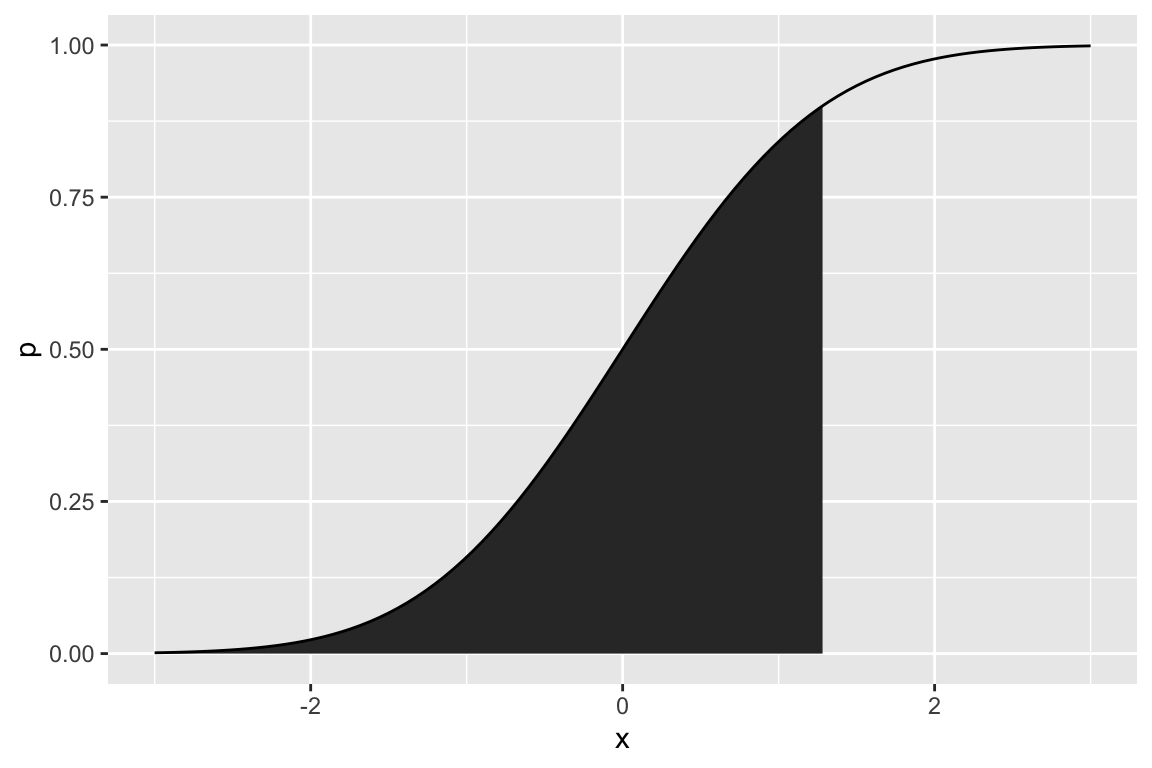
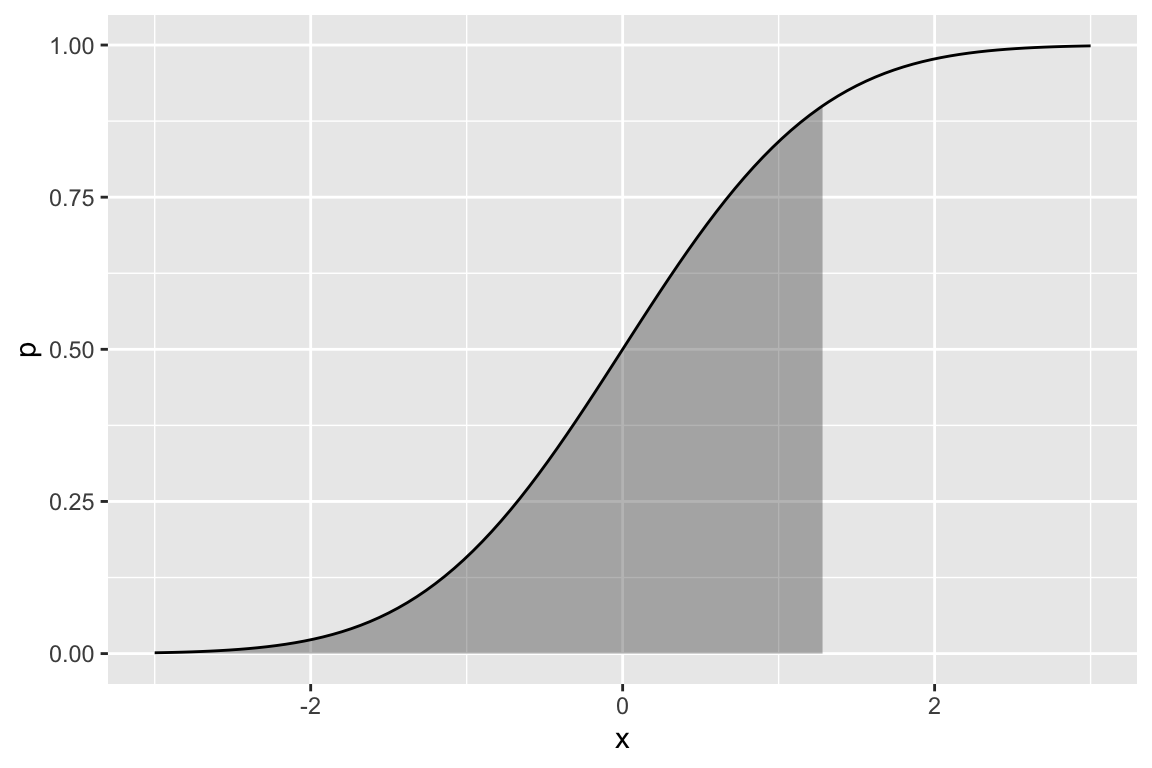
Default probability shading to translucent in geom_cdf and geom_survival
Their shaded regions inherited GeomArea's alpha = NA and rendered fully
opaque grey20, while every other shading in the package is translucent by
default (geom_pdf 0.35, geom_function_1d_1d 0.4, confidence ribbons 0.4).
The shading polygon now resolves a missing alpha to 0.35 (matching sibling
geom_pdf); a supplied alpha aesthetic overrides, and the curve itself keeps
full opacity. Grob-level regression tests read the alpha out of the baked
fill color. README shading figures re-rendered.

Suite: 1,468 passing, 0 warnings. R CMD check --as-cran: 1 NOTE (new
submission).

Changed region(s): [[0.1875, 0.125, 0.7188, 0.875]]

diff --git a/NEWS.md b/NEWS.md
@@ -149,6 +149,12 @@ changes are listed below.
 
 ### Other user-visible changes
 
+* `geom_cdf()` and `geom_survival()` probability shading now defaults to a
+  translucent fill (alpha 0.35, matching `geom_pdf()`) instead of opaque
+  grey; a supplied `alpha` aesthetic overrides, and the curve itself keeps
+  full opacity. Shaded regions are translucent by default across the
+  package.
+
 * `geom_pdf_2d()` now requires a finite function domain for a
   function-only layer (`xlim`/`ylim`, or `hdr_xlim`/`hdr_ylim` for HDR
   types); the raster type previously defaulted silently to `[-1, 1]^2`
